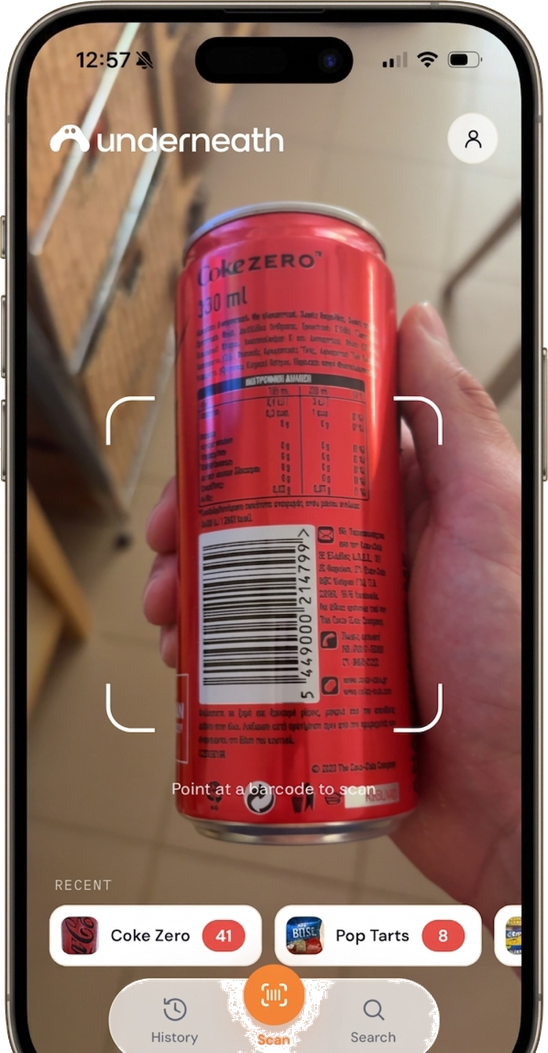
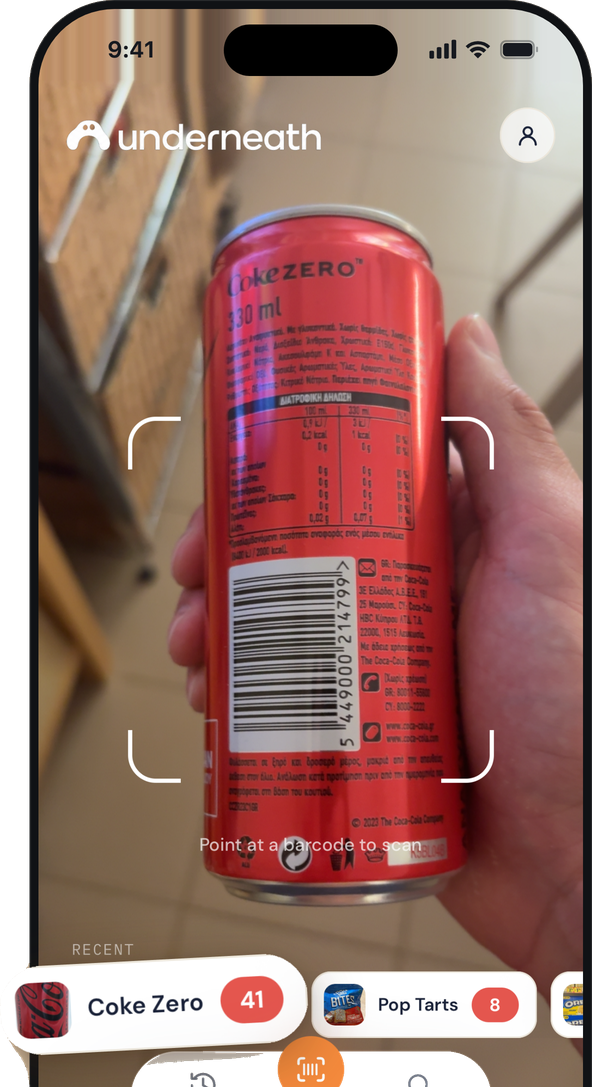
Use the current app screenshots on the landing page
The old shots still showed the sub-score as "Sodium & Sugar", which the
app renamed to "Macros", so the page was advertising a screen that no
longer exists. Re-extracted the phones from the newer marketing renders.

Dropped the top fade with them: it was there to hide the sliced cards
the old composites baked in over the status bar, and these renders have
clean frames. Also removed the fixed figure width, which was fighting
the height sizing and squashing every phone a few percent.

diff --git a/index.html b/index.html
@@ -155,17 +155,13 @@
     scrollbar-width: none;
   }
   .gallery::-webkit-scrollbar { display: none; }
-  .gallery figure { flex: 0 0 auto; width: 235px; scroll-snap-align: center; text-align: center; }
-  /* The cutouts have slightly different widths, so size them by height instead
-     and the phones line up on a common baseline with the captions in a row.
-     The store assets crop the app screen mid element, so the first few rows of
-     some shots are a sliced card. Fading the top hides that and reads as a
-     screen carrying on past the frame. */
+  .gallery figure { flex: 0 0 auto; scroll-snap-align: center; text-align: center; }
+  /* The cutouts have slightly different widths, so size them by height and let
+     each figure hug its own image: the phones then line up on a common baseline
+     with the captions in a row, and nothing gets squashed to a fixed width. */
   .gallery img {
-    width: auto; height: 440px; max-width: 100%;
+    width: auto; height: 440px;
     filter: drop-shadow(0 12px 28px rgba(33,29,23,.14));
-    -webkit-mask-image: linear-gradient(to bottom, transparent 0, #000 13%);
-    mask-image: linear-gradient(to bottom, transparent 0, #000 13%);
   }
   .gallery figcaption { margin-top: 14px; font-size: 14.5px; color: var(--muted); font-weight: 500; }
 
@@ -285,7 +281,6 @@
     .prod img { height: 180px; }
     .why-grid, .company-grid { grid-template-columns: 1fr 1fr; gap: 40px; }
     .gallery { padding: 4px 24px 20px; margin: 0 -24px; justify-content: center; }
-    .gallery figure { width: 250px; }
     .gallery img { height: 470px; }
     .get-card { padding: 40px 34px; }
   }
@@ -345,7 +340,7 @@
         </div>
 
         <div class="hero-shot">
-          <img src="assets/shot-02.png" alt="The Underneath app showing a scanned product scored 8 out of 100, with its processing, macro and additive breakdown" width="607" height="1055" />
+          <img src="assets/shot-02.png" alt="The Underneath app showing a scanned biscuit scored 19 out of 100, with its processing, macro and additive breakdown" width="599" height="1087" />
         </div>
       </div>
     </section>
@@ -381,19 +376,19 @@
       <div class="container">
         <div class="gallery">
           <figure>
-            <img src="assets/shot-01.png" alt="Scanning a drink barcode with the Underneath camera" loading="lazy" width="548" height="1053" />
+            <img src="assets/shot-01.png" alt="Scanning a drink barcode with the Underneath camera" loading="lazy" width="592" height="1087" />
             <figcaption>Point at any barcode</figcaption>
           </figure>
           <figure>
-            <img src="assets/shot-02.png" alt="A product scored 8 out of 100 with processing, macro and additive breakdown" loading="lazy" width="607" height="1055" />
+            <img src="assets/shot-02.png" alt="A biscuit scored 19 out of 100 and marked Poor, with processing, macro and additive bars" loading="lazy" width="599" height="1087" />
             <figcaption>Get one clear score</figcaption>
           </figure>
           <figure>
-            <img src="assets/shot-03.png" alt="Ingredient detail explaining what artificial flavors actually are" loading="lazy" width="556" height="1051" />
-            <figcaption>Understand every ingredient</figcaption>
+            <img src="assets/shot-03.png" alt="A strained yogurt scored 85 out of 100 and marked Good, with its own breakdown and nutrition facts" loading="lazy" width="601" height="1087" />
+            <figcaption>See what actually scores well</figcaption>
           </figure>
           <figure>
-            <img src="assets/shot-04.png" alt="Higher scoring alternatives in the same category" loading="lazy" width="588" height="1048" />
+            <img src="assets/shot-04.png" alt="A list of higher scoring alternatives in the same category, each with its own score" loading="lazy" width="600" height="1087" />
             <figcaption>Find a better version</figcaption>
           </figure>
         </div>
